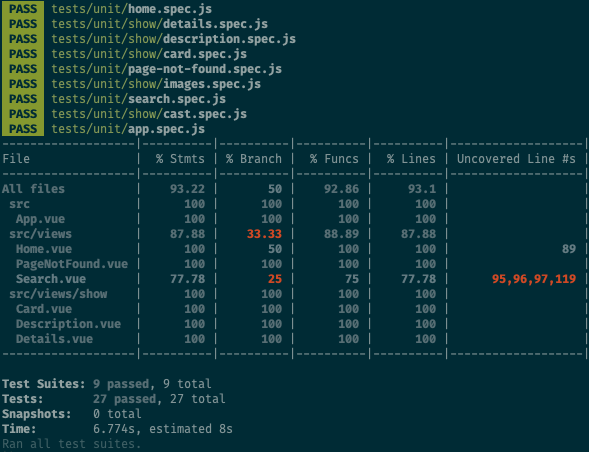
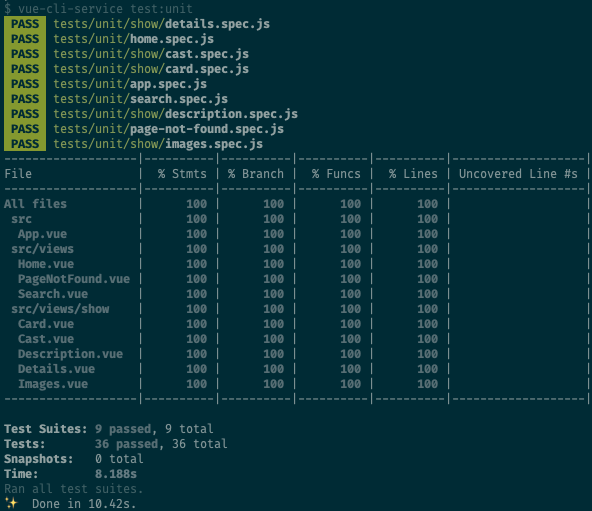
add test coverage to 100 percent

Changed region(s): [[0.0, 0.0, 1.0, 1.0]]

diff --git a/tests/unit/search.spec.js b/tests/unit/search.spec.js
@@ -1,5 +1,6 @@
 import {
     shallowMount,
+    mount,
     createLocalVue
 } from "@vue/test-utils";
 import moxios from "moxios";
@@ -21,7 +22,7 @@ describe("Search.vue", () => {
         // import and pass your custom axios instance to this method
         moxios.install();
 
-        wrapper = shallowMount(Search, {
+        wrapper = mount(Search, {
             localVue,
             stubs: ["router-link"],
         });
@@ -32,11 +33,58 @@ describe("Search.vue", () => {
         moxios.uninstall();
     });
 
-    it("getting a show list when inputed search term", (done) => {
+    it("has a search input", () => {
         let searchInput = wrapper.find('input[type="text"]');
         expect(searchInput.exists()).toBe(true);
+    })
+
+    it("input data is correct", () => {
+        let searchInput = wrapper.find('input[type="text"]');
         searchInput.setValue("parasite");
         expect(wrapper.vm.searchQuery).toBe("parasite");
+    })
+
+    it("when focused, search list reopens", () => {
+        wrapper.setData({
+            isOpen: false
+        })
+        expect(wrapper.vm.isOpen).toBe(false);
+        wrapper.vm.$refs.search.focus()
+        expect(wrapper.vm.isOpen).toBe(true);
+    })
+
+    it("pressing /, focuses search input", async () => {
+        const mockMethod = jest.spyOn(Search.methods, 'keyDownFocus')
+        const div = document.createElement('div')
+        document.body.appendChild(div)
+        let wrapper = await mount(Search, {
+            attachTo: div
+        })
+        let searchInput = wrapper.find('input[type="text"]');
+
+        wrapper.trigger('keydown', {
+            'keyCode': 190
+        })
+        expect(mockMethod).toHaveBeenCalled()
+        expect(searchInput.element).not.toBe(document.activeElement);
+
+        wrapper.trigger('keydown', {
+            'keyCode': 191
+        })
+        expect(mockMethod).toHaveBeenCalled()
+        expect(searchInput.element).toBe(document.activeElement);
+    })
+
+    it("do not call search api when search term is not more than equal 3", () => {
+        const mockMethod = jest.spyOn(Search.methods, 'searchData')
+        let wrapper = mount(Search)
+        wrapper.find('input[type="text"]').setValue("pa");
+        expect(mockMethod).not.toHaveBeenCalled()
+    })
+
+    it("getting a show list when inputed search term", (done) => {
+        let searchInput = wrapper.find('input[type="text"]');
+        searchInput.setValue("parasite");
 
         moxios.wait(function () {
             let request = moxios.requests.mostRecent();
@@ -79,6 +127,12 @@ describe("Search.vue", () => {
                 })
         }, 600);
     });
+
+    it("on close set open to false", () => {
+        expect(wrapper.vm.isOpen).toBe(true);
+        wrapper.vm.onClose()
+        expect(wrapper.vm.isOpen).toBe(false);
+    })
 
     let see = (text, selector) => {
         let wrap = selector ? wrapper.find(selector) : wrapper;

diff --git a/tests/unit/show/cast.spec.js b/tests/unit/show/cast.spec.js
@@ -5,15 +5,18 @@ import ShowCast from "@/views/show/Cast.vue"
 import {
     showCast
 } from '../testing-data'
-import Vue from 'vue';
+import Vue from 'vue'
 
 describe('ShowCast.vue', () => {
-    const cast = showCast
-    const wrapper = shallowMount(ShowCast, {
+    let cast
+    let wrapper
+    cast = Object.assign({}, showCast)
+    wrapper = shallowMount(ShowCast, {
         propsData: {
             cast
         },
     })
+
     it('display cast person name', () => {
         expect(wrapper.find('.cast-person-name').exists()).toBe(true)
         expect(wrapper.find('.cast-person-name').text()).toBe(cast.person.name)
@@ -30,9 +33,18 @@ describe('ShowCast.vue', () => {
         expect(wrapper.vm.castImage).toStrictEqual(cast.character.image.medium || cast.character.image.original);
     })
 
+    it("returns character medium image if available else character original", () => {
+        cast.character.image.medium = null
+        const wrapper = shallowMount(ShowCast, {
+            propsData: {
+                cast
+            },
+        })
+        expect(wrapper.vm.castImage).toStrictEqual(cast.character.image.original);
+    })
+
     it('returns person image when character image not available', () => {
-        const cast = showCast
-        delete cast.character.image
+        cast.character.image = null
         const wrapper = shallowMount(ShowCast, {
             propsData: {
                 cast
@@ -41,10 +53,19 @@ describe('ShowCast.vue', () => {
         expect(wrapper.vm.castImage).toStrictEqual(cast.person.image.medium || cast.person.image.original);
     })
 
-    it('returns null when no cast image available', () => {
-        const cast = showCast
-        delete cast.character.image
-        delete cast.person.image
+    it("returns person medium image if available else person original", () => {
+        cast.person.image.medium = null
+        const wrapper = shallowMount(ShowCast, {
+            propsData: {
+                cast
+            },
+        })
+        expect(wrapper.vm.castImage).toStrictEqual(cast.person.image.original);
+    })
+
+    it('returns null when no cast image available', async () => {
+        cast.character.image = null
+        cast.person.image = null
         const wrapper = shallowMount(ShowCast, {
             propsData: {
                 cast

diff --git a/tests/unit/home.spec.js b/tests/unit/home.spec.js
@@ -6,6 +6,7 @@ import moxios from "moxios";
 import Home from "@/views/Home.vue";
 import {
   homeShows,
+  homeShowsInRandom,
   showGenres,
   homeShowsByGenres,
   sortedHomeShows,
@@ -77,6 +78,10 @@ describe("Home.vue", () => {
   it('return mostly rated shows based on ratings', () => {
     let data = homeShows
     let sorted = wrapper.vm.mostlyRatedShows(data)
+    expect(sorted).toStrictEqual(sortedHomeShows)
+
+    let dataInRandom = homeShowsInRandom
+    sorted = wrapper.vm.mostlyRatedShows(dataInRandom)
     expect(sorted).toStrictEqual(sortedHomeShows)
   })
 });

diff --git a/tests/unit/testing-data.js b/tests/unit/testing-data.js
@@ -41,6 +41,26 @@ export const homeShows = [{
     }
 ]
 
+export const homeShowsInRandom = [{
+    id: 3,
+    genres: ["Thriller", "Action"],
+    rating: {
+        average: null
+    }
+}, {
+    id: 2,
+    genres: ["Thriller", "Action"],
+    rating: {
+        average: 8.1
+    }
+}, {
+    id: 1,
+    genres: ["Action", "Drama"],
+    rating: {
+        average: 7
+    }
+}]
+
 export const showGenres = [
     "Action",
     "Drama",

diff --git a/src/views/Search.vue b/src/views/Search.vue
@@ -98,7 +98,7 @@ export default {
 		};
 	},
 	created() {
-		window.addEventListener("keydown", this.keyDown);
+		window.addEventListener("keydown", this.keyDownFocus);
 	},
 	watch: {
 		searchQuery(newValue) {
@@ -109,7 +109,7 @@ export default {
 		},
 	},
 	methods: {
-		keyDown: function (event) { 
+		keyDownFocus(event) {
 			if (event.keyCode == 191) {
 				event.preventDefault();
 				this.$refs.search.focus();
